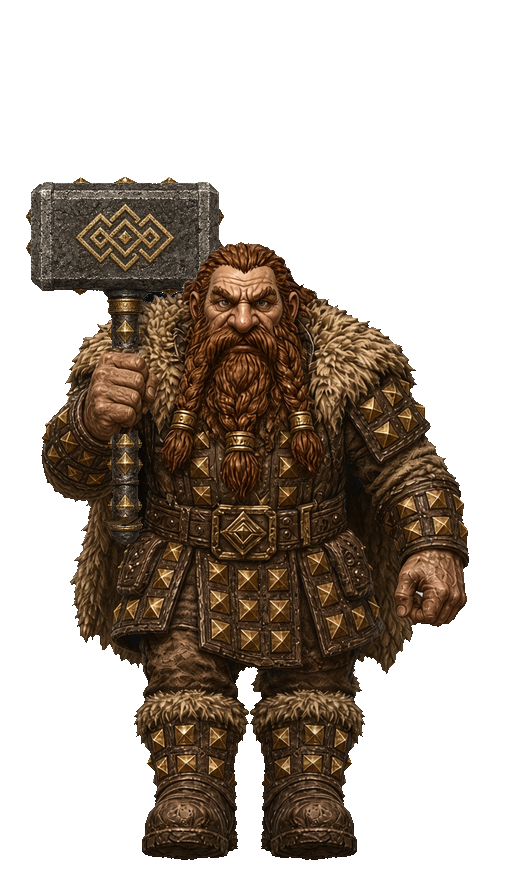
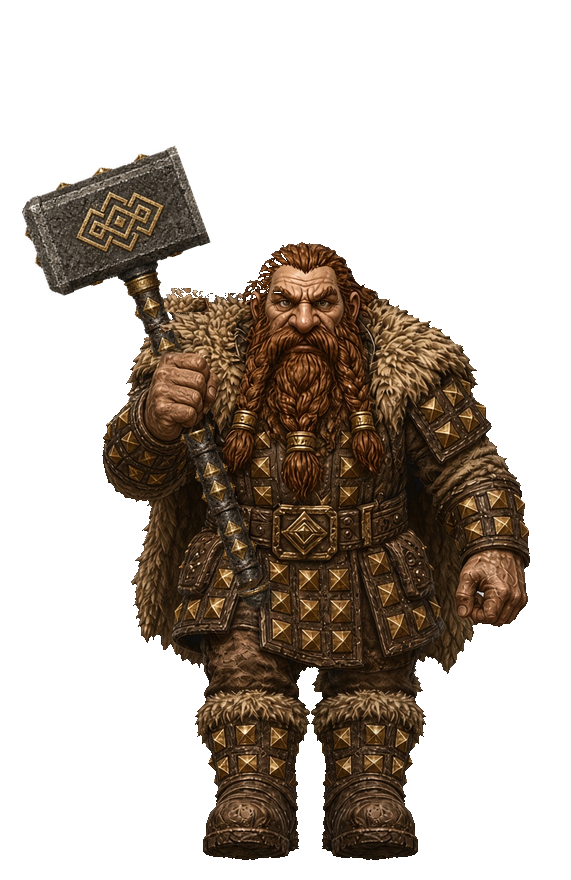
Macar idle: maul tilted back on the shoulder, longer haft
The maul now leans back over his shoulder under its weight: haft tilted
20 degrees, resting on the shoulder fur, head behind and above the
shoulder (slightly smaller for depth, occluded by the figure where they
overlap). The haft is ~40% longer (collar to pommel 360 px, matching the
anchor maul's proportions) and crosses his body past the fist to a
pommel below the belt. Old head and collar removed; fur patched.

Canvas is 571 wide (was 510) so the tilted head fits; boots stay on the
same line and the game plants on the feet. The foot-column crown is now
his hair, not the maul head, so his standing body fills the dwarf height
(fit 1.404, was 1.272). Walk-vs-idle check now compares the boot line.

Claude-Session: https://claude.ai/code/session_01JzWctKtBWBn4Z96hsGEEBK

diff --git a/src/combat/MacarWeaponLock.test.js b/src/combat/MacarWeaponLock.test.js
@@ -131,19 +131,13 @@ const unlockedW1=ctx.heroFigureFit(mac, SPR.macar_w1);
 assert(Math.abs(w1Fit-idleFit)<1e-9 && Math.abs(w2Fit-idleFit)<1e-9,
   'maul w1/w2 plant at idle scale (lock '+idleFit.toFixed(3)+')');
 /* Sheets share one 880 canvas at one body scale. The idle (2026-09-29) is
-   the front walk with both boots planted, maul on the shoulder, so the
-   standing walk box and the idle box read the same height on screen: no
-   pop when he stops or starts walking. */
-assert(Math.abs(unlockedW1-idleFit)<0.65,
-  'freearm v8 maul w1 unlocked plant stays within body-scale range of idle (unlocked '
-  +unlockedW1.toFixed(3)+' vs idle '+idleFit.toFixed(3)+')');
-
-const idleScreen=macarB.boxH*idleFit/macarB.h;
-const w1Screen=w1B.boxH*w1Fit/w1B.h;
-const w2Screen=w2B.boxH*w2Fit/w2B.h;
-assert(Math.abs(w1Screen/idleScreen-1)<0.04 && Math.abs(w2Screen/idleScreen-1)<0.04,
-  'on-screen standing walk box matches the standing idle, at one body scale (idle '+idleScreen.toFixed(3)
-  +', w1 '+w1Screen.toFixed(3)+', w2 '+w2Screen.toFixed(3)+')');
+   the front walk with both boots planted and the maul tilted back on the
+   shoulder, so its painted box differs from the walk's only by where the
+   maul head sits. No pop when he stops or starts walking means the same
+   dest scale (asserted above) and the boots on the same line. */
+assert(Math.abs(macarB.y1-w1B.y1)<0.005 && Math.abs(macarB.y1-w2B.y1)<0.005,
+  'idle and front walk boots land on the same line (idle '+macarB.y1.toFixed(4)
+  +', w1 '+w1B.y1.toFixed(4)+', w2 '+w2B.y1.toFixed(4)+')');
 
 ctx._axe=true;
 const axeFit=ctx.livingMacarPlantFit(mac, 'macar_axe', SPR.macar_axe);
